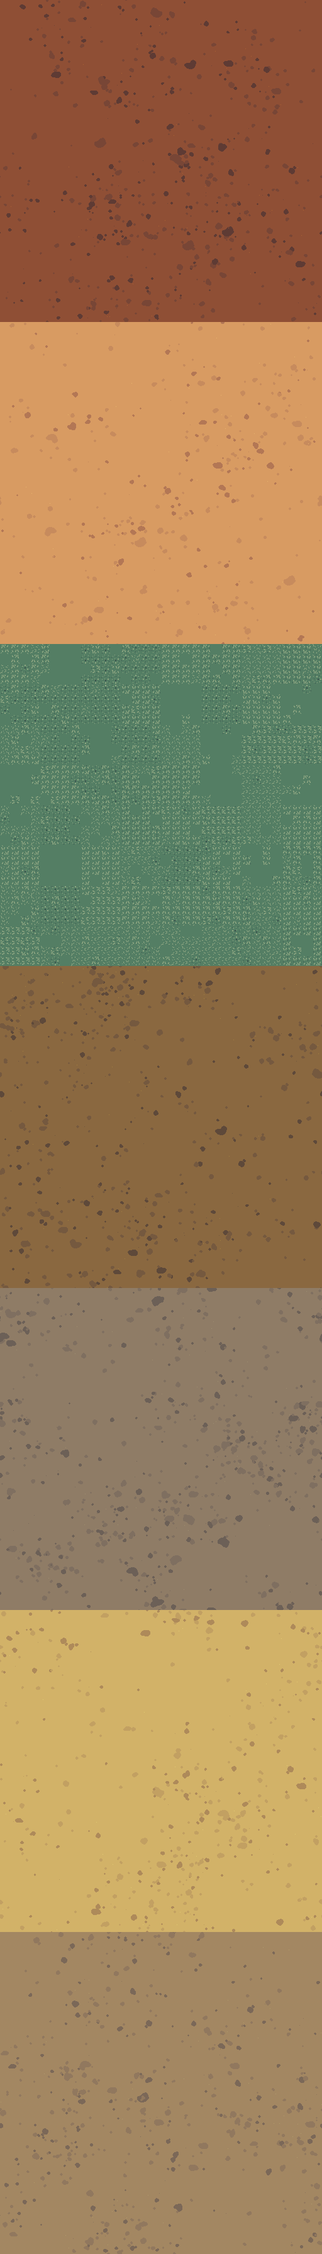
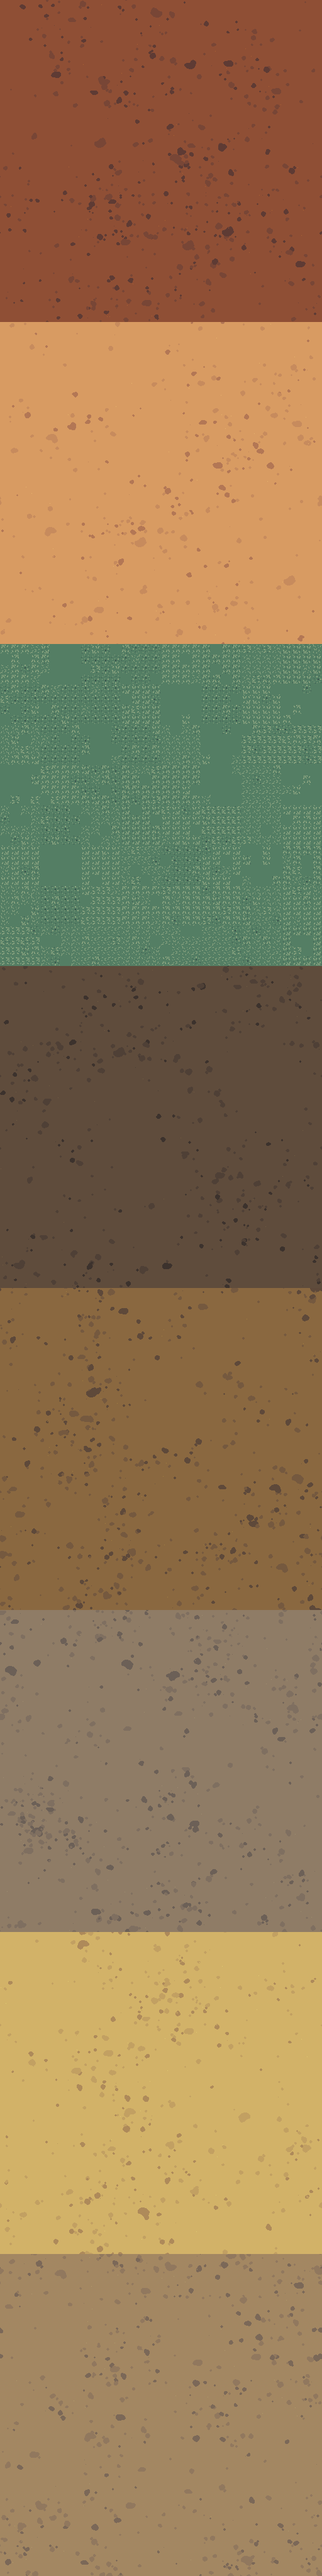
Give the mine a real floor, and fix detail that slid with the camera
The mine interior was rougher than the overworld ever was: flat brown floor,
near-black boxes for walls. The floor is the largest surface in it and now
draws a baked cave texture, which makes the tunnel shape legible.

The Miner's Cave pack supplied the COLOUR, not the tiles. I tried its cobble
block as a mosaic first and the tool refused it three times over: row 5 is
not fully opaque, (4,2) is 69 apart in tone from (3,0), (3,2) is 42 apart,
and the three cells that survived the tone check do not join cleanly (seam 67
against a tolerance of 27). It is an autotile set with directional edges and
per-cell lighting, not interchangeable variants -- the same shape of problem
as the farm pack's dirt and the undead pack's rock. Its 32/48/64 sheets are
exact nearest-neighbour upscales of the 16px one, measured, so they were no
help either.

What it is good for is that #b9946b is 42% of its cave floor. Darkened to
#5f4c3c that is the scatter base, with the existing spots.png mottling on
top. Lighter than the #3a3028 it replaces, because the mine was hard to READ,
not merely plain.

Also fixes a bug found on the way: drawMineTile only received screen
coordinates, and the painted floor detail hashed off `sx` -- so every speck
of gravel slid across the floor as the player walked. It now takes world tile
coordinates, which the baked texture needs anyway to stay put.

Recorded in ASSET-INVENTORY.md, including what is still worth taking from
[…]

diff --git a/index.html b/index.html
@@ -23395,11 +23395,17 @@ const MINE_TILE_COLORS = {
   [TL.MINE_SHAFT_UP]:  ['#182838','#102030'],
 };
 
-function drawMineTile(t, sx, sy) {
+// tx/ty are the WORLD tile coordinates. They are needed for the baked floor
+// texture, which samples itself by tile so the surface stays put as the
+// camera moves. The painted detail this replaces hashed off `sx` — the SCREEN
+// x — so every speck of gravel slid across the floor as the player walked.
+function drawMineTile(t, sx, sy, tx, ty) {
   const c = MINE_TILE_COLORS[t] || MINE_TILE_COLORS[TL.MINE_WALL];
   ctx.fillStyle = c[0]; ctx.fillRect(sx, sy, T, T);
 
   if (t === TL.MINE_FLOOR) {
+    // Real cave floor, when the atlas is there.
+    if (tx !== undefined && DHGround.draw(ctx,'minefloor',sx,sy,tx,ty)) return;
     // Rough hewn stone floor — deterministic per tile
     const mh=(sx*2654435761+sy*1013904223)>>>0;
     const mh2=(sx*1013904223+sy*2654435761)>>>0;
@@ -23592,7 +23598,7 @@ function renderMineMap() {
   for (let ty2=sty;ty2<=ety;ty2++) for (let tx2=stx;tx2<=etx;tx2++) {
     const sx=tx2*T-cx, sy=ty2*T-cy;
     const t = getMineT(floor, tx2, ty2);
-    drawMineTile(t, sx, sy);
+    drawMineTile(t, sx, sy, tx2, ty2);
   }
   ctx.restore();
 
@@ -23724,7 +23730,7 @@ function renderBLMineMap() {
   ctx.save();
   for (let ty2=sty;ty2<=ety;ty2++) for (let tx2=stx;tx2<=etx;tx2++) {
     const sx=tx2*T-cx, sy=ty2*T-cy;
-    drawMineTile(getBLMineT(floor,tx2,ty2), sx, sy);
+    drawMineTile(getBLMineT(floor,tx2,ty2), sx, sy, tx2, ty2);
   }
   ctx.restore();
   // Fog of war

diff --git a/tools/build_ground.py b/tools/build_ground.py
@@ -58,10 +58,12 @@ SOURCES = {
     "farmland":  "All Tileset/16x16.png",
     "forest":    "All Tileset/16x16.png",
     "farmyard":  "PNG/ground_grass_bricks.png",
+    "minecave":  "All Tileset/16x16.png",
 }
 # Two packs ship a file at the same path, so each is pinned to the pack folder
 # whose name contains this.
-SOURCE_PACK = {"farmland": "farmlands", "forest": "greenforest"}
+SOURCE_PACK = {"farmland": "farmlands", "forest": "greenforest",
+               "minecave": "miners-cave"}
 
 # The two tones in spots.png, measured off the sheet.
 TONE_DARK = (174, 138, 90)
@@ -117,6 +119,21 @@ TERRAINS = {
     # more coarsely than a wagon track.
     "dirt":  {"kind": "scatter", "base": "#8f4f35",
               "clusters": 30, "per": 15, "spread": 30, "loose": 115},
+    # The mine's floor. A scatter, not a mosaic of the Miner's Cave pack's
+    # cobble cells — that was the plan and the tool refused it three times
+    # over: (5,*) are not fully opaque, (4,2) is 69 apart in tone from (3,0),
+    # (3,2) is 42 apart, and the three that survived the tone check do not
+    # join cleanly (seam 67 against a tolerance of 27). That block is an
+    # autotile set with directional edges and per-cell lighting, not a set of
+    # interchangeable variants, exactly like the undead pack's rock.
+    #
+    # What the pack is good for here is the COLOUR: #b9946b is 42% of its cave
+    # floor. Darkened to sit under a mine's lighting, that is the base below,
+    # and the existing spots.png mottling does the rest. Lighter than the
+    # #3a3028 it replaces, because the mine was hard to read rather than
+    # merely plain.
+    "minefloor": {"kind": "scatter", "base": "#5f4c3c",
+                  "clusters": 26, "per": 13, "spread": 32, "loose": 95},
 }
 
 

diff --git a/docs/ASSET-INVENTORY.md b/docs/ASSET-INVENTORY.md
@@ -299,6 +299,10 @@ item designs, which is not a risk worth taking on a paid Steam release.
 | `freeglassblowersworkshop…` | **Assessed and rejected.** Same Tudor architecture as the guild hall. |
 | `free2dtopdownpixeldungeon…` | **Assessed and rejected for the mine.** Blue-grey dressed castle masonry — arches, wooden doors, flagstone. The mine is a rough-hewn frontier shaft, so this is the wrong material as well as the wrong palette, and colourising it would not fix the architecture. It is also 16px per tile (its own `.tmx` says so) against the mine's 32px, so its walls could not fill a tile anyway. |
 | `freeundeadtileset…` | **Assessed and not imported.** `Ground_rocks.png` is a chasm/cliff-edge autotile set — jagged dark rock that would suit a mine face, but it is edge tiles, and the game has no autotiling. Searching it for flat ground cells turns up only the sheet's plain background fill, not the cracked earth visible in the composed tiles. Worth revisiting if autotiling ever lands. |
+| `minerscavetopdowntileset…` | **Its colour is imported; its tiles are not.** The mine floor is now a baked `minefloor` scatter whose base is derived from `#b9946b`, 42% of this pack's cave floor. Its cobble *cells* were tried first as a mosaic and the tool refused them three times: row 5 is not fully opaque, (4,2) is 69 apart in tone from (3,0), (3,2) is 42 apart, and the three that survived the tone check do not join (seam 67 against tolerance 27). That block is an autotile set with directional edges and per-cell lighting. Its 32/48/64 sheets are exact nearest-neighbour upscales of the 16px one (measured), so they are no help either. **Still unused and worth returning to:** `!$Metal Ores.png` (ore seams for the vein tiles), the wooden pit props, beams, ladders, lanterns and mine carts. |
+| `medievalinteriortopdown…` | **Not yet examined.** |
+| `greenvillagetopdown…` | **Not yet examined.** |
+| `greendungeonpixelart…` | **Not yet examined.** |
 | `freebase4direction{male,female}…` | **Naked mannequins — now the player base.** Bald, unclothed bodies, 13×22px of content in a 64px cell, with full `dir4` clip sets (idle/walk/run/attack/hurt/death, plus Sword variants). Unusable as characters on their own, which turned out to suit the customization system: `tools/build_player.py` splits each frame into skin / torso / legs / head / detail masks and `assets/js/player-sprite.js` tints and composites them per save, so hair, shirt, trousers and hat all still come from the creation screen. |
 | `fantasyrpghunterslodge…` | **Characters and camp props imported.** The hunter (48×48, `DLRU`, ragged idle rows `[12,12,12,6]`) and the dog (32×32, `DLRU`) are in the manifest as `hunter` and `dog`; eight pieces from `Exterior_objects.png` and `Trap.png` are in `assets/fixtures/` (`tools/build_fixtures.py`) and make Amos's camp at map (48,44) — seven decorations plus **the lodge itself**, a 144×146 log cabin drawn by the overhang pass with a 3×2 solid footprint under its walls. The camp moved from (48,39) so the cabin's roof, which reaches four and a half tiles above its base, clears the river at y34–35. **The tanning / taking-knife / leaving-knife animations are rejected, not pending:** their frames are 48×48 with content filling the cell edge-to-edge (bbox 0,0–40,42) because the hide rack is drawn into them — they are scenes, not character clips, unlike the idle whose content is a 20×26 figure centred in the cell. Feeding one to the sprite engine draws a second, clipped hunter over Amos. The rack is in the camp atlas instead, which is the same art without the problem. **Still unused:** the interior tiles, doors and fireplace, which would need a whole interior zone rather than an art import. |
 | `fishingandgatheringicons` | 14 sheets, `Fish1`–`Fish10` plus gathering icons, 32px tall strips. Maps directly onto the game's fish items. |
